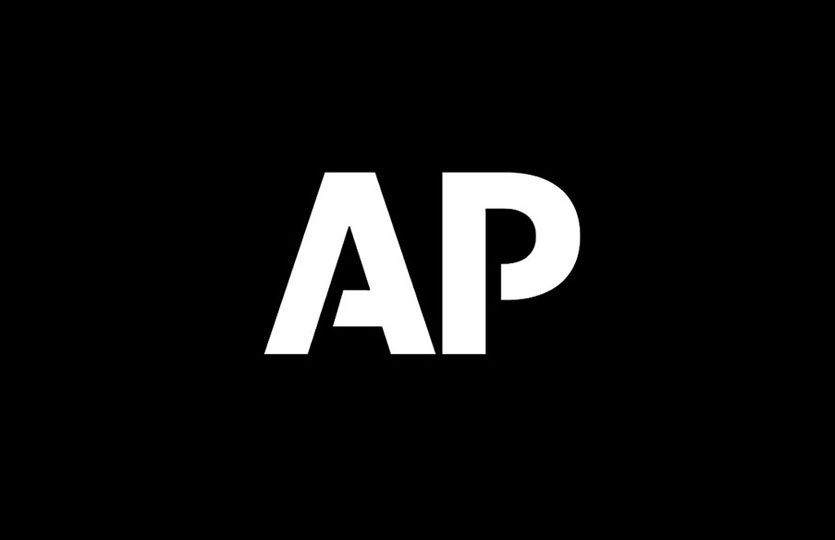
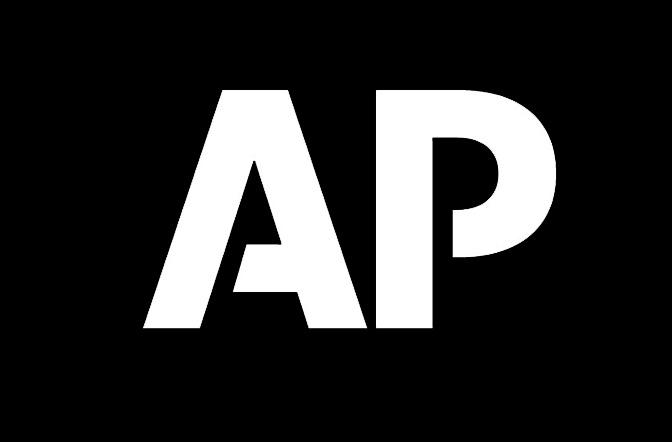
center bg img

Changed region(s): [[0.2188, 0.2059, 0.8438, 0.7647]]

diff --git a/index.html b/index.html
@@ -3,8 +3,8 @@
     <head>
         <meta charset='utf-8'>
         <meta http-equiv='X-UA-Compatible' content='IE=edge'>
-        <title>Visual - Boston Globe</title>
-        <meta name='description' content='Boston Globe - visual updates of trending stories.'>
+        <title>Brief - Boston Globe</title>
+        <meta name='description' content='a brief look at new and trending stories.'>
         <meta name='viewport' content='width=device-width, initial-scale=1'>
         <link rel="apple-touch-icon" href='img/apple-icon-brief.jpg'>
         <style>
@@ -23,7 +23,7 @@
             <div id='results'></div>
         </div>
         <script>
-            !function(){window.trending=function(e){e?(e.data&&n(e.data),e.updated&&a(e.updated)):console.log("error loading data")};var e=function(){var e="http://russellgoldenberg.com/globe/visual/trending.jsonp?",n=document.createElement("script"),t=new Date,a="_="+t.getTime();n.src=e+a+"?callback=?",document.getElementsByTagName("body")[0].appendChild(n)},n=function(e){var n=e.length;e.length%2===1&&(n-=1);for(var a=0;n>a;a++){var l=e[a],o=i(l.title),d=r(l.description),s='<a href="'+l.url+'">';s+='<h1 class="headline">'+o+"</h1>",s+='<div class="image" id="story-image-'+a+'"></div>',s+='<p class="description">'+d+"</p></div>",s+="</a>";var c=document.getElementById("results"),g=document.createElement("div");g.innerHTML=s,g.classList?g.classList.add("story"):g.className+=" story",c.appendChild(g)}var u=function(a){var i=e[a],r=new Image;r.onload=function(){var e="url('"+i.image+"')",t=document.getElementById("story-image-"+a);t.style.backgroundImage=e,a++,n>a&&u(a)},r.onerror=function(){console.log("error loading image:",i.image),a++,n>a&&u(a)},i.image=t(i.image)?"img/bg.jpg":i.image.replace("585w","835w"),r.src=i.image};u(0)},t=function(e){return e?e.indexOf("logo-bg-small-square")>-1?!0:e.indexOf("Staff/Caricatures")>-1?!0:e.indexOf("avatars.scribblelive")>-1?!0:!1:!0},a=function(e){var n=document.getElementById("updated");n.innerText="Last updated: "+e.time},i=function(e){var n=e.split("-");return n.length>2?n=n.slice(0,n.length-2):2===n.length&&(n=n.slice(0,1)),n.join("-")},r=function(e){var n=240;if(e.length>n){var t=e.substring(0,n),a=t.lastIndexOf(" ");return t.substring(0,a)+"..."}return e};e()}();
+            !function(){window.trending=function(e){e?(e.data&&n(e.data),e.updated&&a(e.updated)):console.log("error loading data")};var e=function(){var e="http://russellgoldenberg.com/globe/visual/trending.jsonp?",n=document.createElement("script"),t=new Date,a="_="+t.getTime();n.src=e+a+"?callback=?",document.getElementsByTagName("body")[0].appendChild(n)},n=function(e){var n=e.length;e.length%2===1&&(n-=1);for(var a=0;n>a;a++){var l=e[a],o=i(l.title),g=r(l.description),s='<a href="'+l.url+'">';s+='<h1 class="headline">'+o+"</h1>",s+='<div class="image" id="story-image-'+a+'"></div>',s+='<p class="description">'+g+"</p></div>",s+="</a>";var d=document.getElementById("results"),c=document.createElement("div");c.innerHTML=s,c.classList?c.classList.add("story"):c.className+=" story",d.appendChild(c)}var u=function(a){var i=e[a],r=new Image;r.onload=function(){var e="url('"+i.image+"')",t=document.getElementById("story-image-"+a);t.style.backgroundImage=e,("img/ap.jpg"===i.image||"img/bg.jpg"===i.image)&&(t.style.backgroundPosition="50% 50%"),a++,n>a&&u(a)},r.onerror=function(){console.log("error loading image:",i.image),a++,n>a&&u(a)},i.image=t(i.image)?"img/bg.jpg":i.image.replace("585w","835w"),r.src=i.image};u(0)},t=function(e){return e?e.indexOf("logo-bg-small-square")>-1?!0:e.indexOf("Staff/Caricatures")>-1?!0:e.indexOf("avatars.scribblelive")>-1?!0:!1:!0},a=function(e){var n=document.getElementById("updated");n.innerText="Last updated: "+e.time},i=function(e){var n=e.split("-");return n.length>2?n=n.slice(0,n.length-2):2===n.length&&(n=n.slice(0,1)),n.join("-")},r=function(e){var n=240;if(e.length>n){var t=e.substring(0,n),a=t.lastIndexOf(" ");return t.substring(0,a)+"..."}return e};e()}();
         </script>
     </body>
 </html>

diff --git a/src/temp/main.js b/src/temp/main.js
@@ -1,1 +1,1 @@
-!function(){window.trending=function(e){e?(e.data&&n(e.data),e.updated&&a(e.updated)):console.log("error loading data")};var e=function(){var e="http://russellgoldenberg.com/globe/visual/trending.jsonp?",n=document.createElement("script"),t=new Date,a="_="+t.getTime();n.src=e+a+"?callback=?",document.getElementsByTagName("body")[0].appendChild(n)},n=function(e){var n=e.length;e.length%2===1&&(n-=1);for(var a=0;n>a;a++){var l=e[a],o=i(l.title),d=r(l.description),s='<a href="'+l.url+'">';s+='<h1 class="headline">'+o+"</h1>",s+='<div class="image" id="story-image-'+a+'"></div>',s+='<p class="description">'+d+"</p></div>",s+="</a>";var c=document.getElementById("results"),g=document.createElement("div");g.innerHTML=s,g.classList?g.classList.add("story"):g.className+=" story",c.appendChild(g)}var u=function(a){var i=e[a],r=new Image;r.onload=function(){var e="url('"+i.image+"')",t=document.getElementById("story-image-"+a);t.style.backgroundImage=e,a++,n>a&&u(a)},r.onerror=function(){console.log("error loading image:",i.image),a++,n>a&&u(a)},i.image=t(i.image)?"img/bg.jpg":i.image.replace("585w","835w"),r.src=i.image};u(0)},t=function(e){return e?e.indexOf("logo-bg-small-square")>-1?!0:e.indexOf("Staff/Caricatures")>-1?!0:e.indexOf("avatars.scribblelive")>-1?!0:!1:!0},a=function(e){var n=document.getElementById("updated");n.innerText="Last updated: "+e.time},i=function(e){var n=e.split("-");return n.length>2?n=n.slice(0,n.length-2):2===n.length&&(n=n.slice(0,1)),n.join("-")},r=function(e){var n=240;if(e.length>n){var t=e.substring(0,n),a=t.lastIndexOf(" ");return t.substring(0,a)+"..."}return e};e()}();
+!function(){window.trending=function(e){e?(e.data&&n(e.data),e.updated&&a(e.updated)):console.log("error loading data")};var e=function(){var e="http://russellgoldenberg.com/globe/visual/trending.jsonp?",n=document.createElement("script"),t=new Date,a="_="+t.getTime();n.src=e+a+"?callback=?",document.getElementsByTagName("body")[0].appendChild(n)},n=function(e){var n=e.length;e.length%2===1&&(n-=1);for(var a=0;n>a;a++){var l=e[a],o=i(l.title),g=r(l.description),s='<a href="'+l.url+'">';s+='<h1 class="headline">'+o+"</h1>",s+='<div class="image" id="story-image-'+a+'"></div>',s+='<p class="description">'+g+"</p></div>",s+="</a>";var d=document.getElementById("results"),c=document.createElement("div");c.innerHTML=s,c.classList?c.classList.add("story"):c.className+=" story",d.appendChild(c)}var u=function(a){var i=e[a],r=new Image;r.onload=function(){var e="url('"+i.image+"')",t=document.getElementById("story-image-"+a);t.style.backgroundImage=e,("img/ap.jpg"===i.image||"img/bg.jpg"===i.image)&&(t.style.backgroundPosition="50% 50%"),a++,n>a&&u(a)},r.onerror=function(){console.log("error loading image:",i.image),a++,n>a&&u(a)},i.image=t(i.image)?"img/bg.jpg":i.image.replace("585w","835w"),r.src=i.image};u(0)},t=function(e){return e?e.indexOf("logo-bg-small-square")>-1?!0:e.indexOf("Staff/Caricatures")>-1?!0:e.indexOf("avatars.scribblelive")>-1?!0:!1:!0},a=function(e){var n=document.getElementById("updated");n.innerText="Last updated: "+e.time},i=function(e){var n=e.split("-");return n.length>2?n=n.slice(0,n.length-2):2===n.length&&(n=n.slice(0,1)),n.join("-")},r=function(e){var n=240;if(e.length>n){var t=e.substring(0,n),a=t.lastIndexOf(" ");return t.substring(0,a)+"..."}return e};e()}();

diff --git a/src/js/main.js b/src/js/main.js
@@ -52,13 +52,19 @@
 
         var loadImage = function(i) {
             var story = data[i];
-            
             var img = new Image();
+            var replace = false;
             
             img.onload = function() {
                 var bg = 'url(\''+ story.image +'\')';
                 var el = document.getElementById('story-image-' + i);
                 el.style.backgroundImage = bg;
+
+                //center if ap or bg
+                if(story.image === 'img/ap.jpg' || story.image === 'img/bg.jpg') {
+                    el.style.backgroundPosition = '50% 50%';
+                }
+
                 i++;
                 if(i < num) {
                     loadImage(i);
